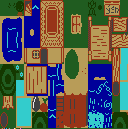
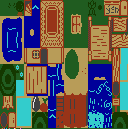
playing with maps

Changed region(s): [[0.9375, 0.0, 1.0, 0.124], [0.875, 0.7442, 0.9375, 0.8682], [0.0625, 0.8682, 0.125, 0.9922]]

diff --git a/Source/Maps/Overworld Tiles.tsx b/Source/Maps/Overworld Tiles.tsx
@@ -54,6 +54,12 @@
    <object id="1" x="0" y="0" width="8" height="16"/>
   </objectgroup>
  </tile>
+ <tile id="15">
+  <properties>
+   <property name="Door" type="bool" value="true"/>
+   <property name="Locked" type="bool" value="true"/>
+  </properties>
+ </tile>
  <tile id="16">
   <properties>
    <property name="Wade" type="bool" value="true"/>
@@ -461,7 +467,8 @@
  </tile>
  <tile id="110">
   <properties>
-   <property name="Wade" type="bool" value="true"/>
+   <property name="Signpost" type="bool" value="true"/>
+   <property name="Wade" type="bool" value="false"/>
   </properties>
  </tile>
  <tile id="111">
@@ -472,6 +479,11 @@
  <tile id="112">
   <properties>
    <property name="Pit" type="bool" value="true"/>
+  </properties>
+ </tile>
+ <tile id="113">
+  <properties>
+   <property name="Door" type="bool" value="true"/>
   </properties>
  </tile>
  <tile id="114">
